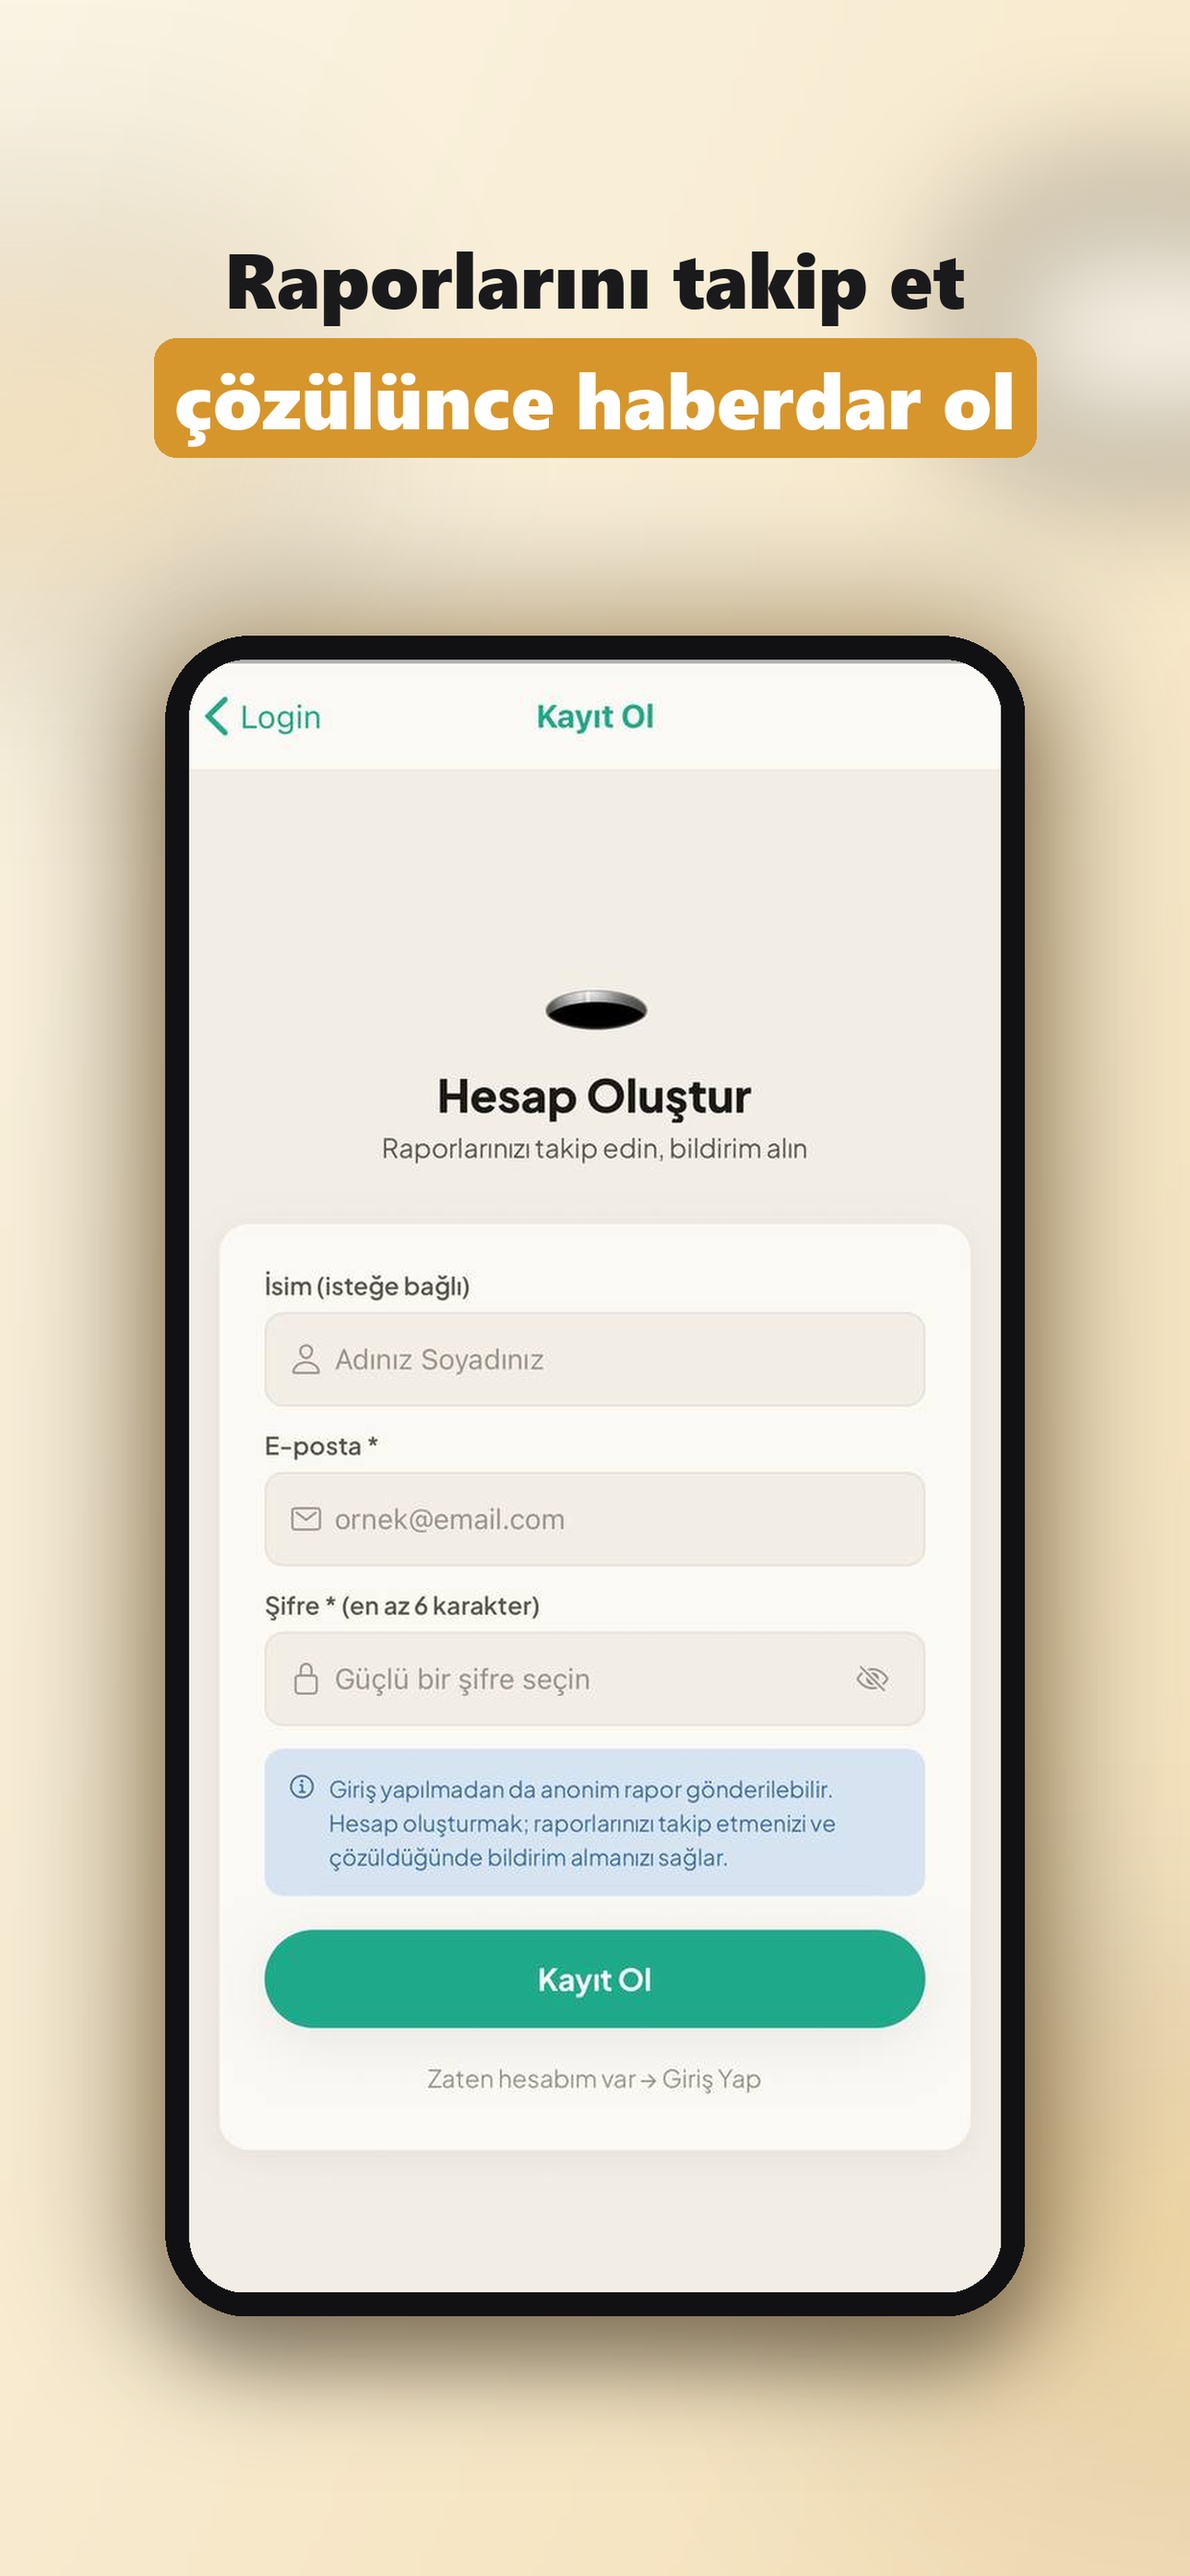
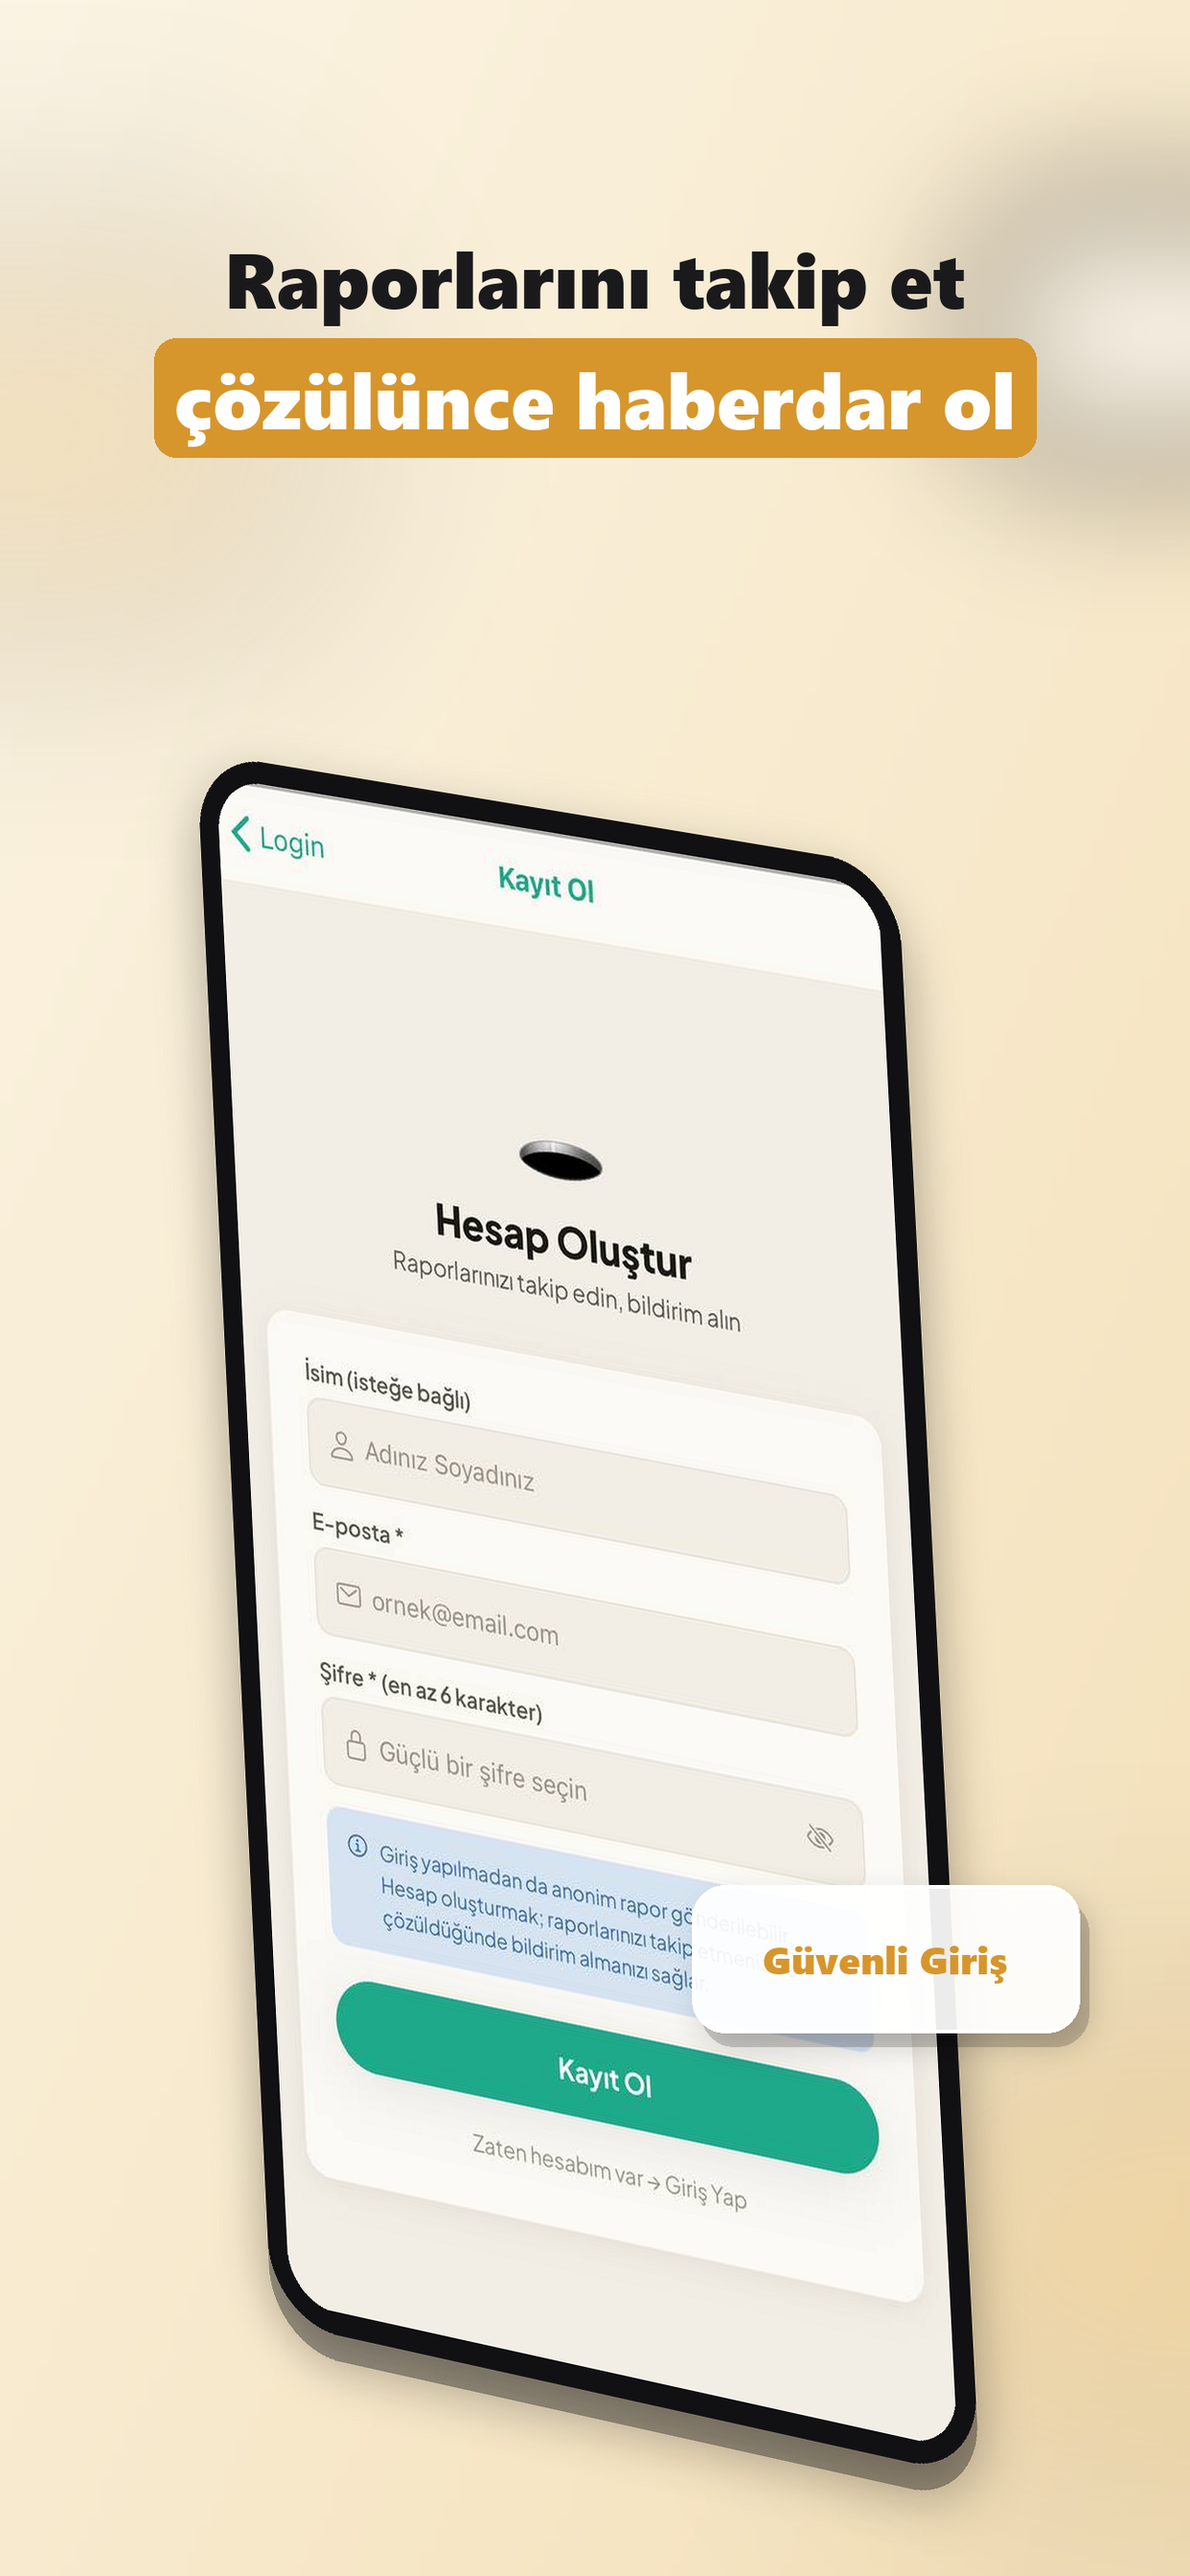
fix(assets): fix typo in perspective solver, adjust layout spacing, and generate final 3D screenshots

diff --git a/app-store-assets/make_app_store_screenshots.py b/app-store-assets/make_app_store_screenshots.py
@@ -1,8 +1,7 @@
-"""Generate App Store-ready 6.9" marketing screenshots from raw TestFlight captures."""
+"""Generate App Store-ready 6.9" and 6.5" screenshots with alternating 3D perspective and floating badges."""
 
 from pathlib import Path
 from PIL import Image, ImageDraw, ImageFont, ImageFilter
-
 
 W, H = 1290, 2796
 INK = (26, 26, 28)
@@ -21,7 +20,7 @@ THEMES = {
     "amber": ((251, 244, 228), (244, 224, 184), (214, 150, 44)),
 }
 
-# Crop removes the TestFlight header while preserving the app navigation bar.
+# SHOTS configuration: (source_img, dest_img, theme, headlines, crop_top, tilt_direction, badge_text)
 SHOTS = [
     (
         "photo_2026-05-31_04-26-22 (3).jpg",
@@ -29,6 +28,8 @@ SHOTS = [
         "mint",
         [[("Yoldaki tüm çukurları", False)], [("haritadan takip edin", True)]],
         78,
+        "right",
+        "Sorun Çözüldü!"
     ),
     (
         "photo_2026-05-31_04-26-22 (2).jpg",
@@ -36,6 +37,8 @@ SHOTS = [
         "mint",
         [[("Çukuru fotoğrafla", False)], [("saniyeler içinde bildir", True)]],
         78,
+        "left",
+        "Konum Algılandı"
     ),
     (
         "photo_2026-05-31_04-26-22.jpg",
@@ -43,6 +46,8 @@ SHOTS = [
         "blue",
         [[("Şehrindeki sorunları", False)], [("şeffafça takip et", True)]],
         78,
+        "right",
+        "Aktif Belediyeler"
     ),
     (
         "photo_2026-05-31_04-26-21.jpg",
@@ -50,8 +55,36 @@ SHOTS = [
         "amber",
         [[("Raporlarını takip et", False)], [("çözülünce haberdar ol", True)]],
         92,
+        "left",
+        "Güvenli Giriş"
     ),
 ]
+
+
+def solve_linear_system(A, B):
+    n = len(A)
+    M = [A[i] + [B[i]] for i in range(n)]
+    for i in range(n):
+        pivot_row = max(range(i, n), key=lambda r: abs(M[r][i]))
+        M[i], M[pivot_row] = M[pivot_row], M[i]
+        pivot = M[i][i]
+        M[i] = [val / pivot for val in M[i]]
+        for r in range(n):
+            if r != i:
+                factor = M[r][i]
+                M[r] = [M[r][j] - factor * M[i][j] for j in range(n + 1)]
+    return [row[-1] for row in M]
+
+
+def get_perspective_coeffs(src_pts, dst_pts):
+    A = []
+    B = []
+    for (u, v), (x, y) in zip(dst_pts, src_pts):
+        A.append([u, v, 1, 0, 0, 0, -x*u, -x*v])
+        B.append(x)
+        A.append([0, 0, 0, u, v, 1, -y*u, -y*v])
+        B.append(y)
+    return solve_linear_system(A, B)
 
 
 def diagonal_gradient(c1, c2):
@@ -108,47 +141,136 @@ def draw_headline(canvas, lines, font, accent):
         y += line_height
 
 
-def make(source, destination, theme_name, lines, crop_top, font):
+def make(source, destination, theme_name, lines, crop_top, tilt, badge_text, font):
     color_a, color_b, accent = THEMES[theme_name]
     background = diagonal_gradient(color_a, color_b).convert("RGBA")
     background = soft_circle(background, 120, 470, 230, accent, 46)
     background = soft_circle(background, W - 90, 360, 150, WHITE, 150)
     background = soft_circle(background, W - 120, H - 360, 260, accent, 38)
 
+    # Load and crop screenshot
     shot = Image.open(source).convert("RGB")
     shot = shot.crop((0, crop_top, shot.width, shot.height))
     screen_width = 880
     screen_height = round(screen_width / (shot.width / shot.height))
     shot = shot.resize((screen_width, screen_height), Image.Resampling.LANCZOS)
 
+    # Flat mockup measurements
     bezel = 26
     body_width, body_height = screen_width + 2 * bezel, screen_height + 2 * bezel
-    body_x = (W - body_width) // 2
-    body_y = 690
+    padding = 100
+    temp_w, temp_h = body_width + 2 * padding, body_height + 2 * padding
 
-    glow = Image.new("RGBA", (W, H), (0, 0, 0, 0))
-    ImageDraw.Draw(glow).rounded_rectangle(
-        [body_x - 30, body_y - 20, body_x + body_width + 30, body_y + body_height + 20],
-        120,
-        fill=accent + (120,),
-    )
-    background = Image.alpha_composite(background, glow.filter(ImageFilter.GaussianBlur(70)))
+    # Temporary canvas for drawing flat phone
+    temp_canvas = Image.new("RGBA", (temp_w, temp_h), (0, 0, 0, 0))
+    draw_temp = ImageDraw.Draw(temp_canvas)
 
-    shadow = Image.new("RGBA", (W, H), (0, 0, 0, 0))
-    ImageDraw.Draw(shadow).rounded_rectangle(
-        [body_x, body_y + 40, body_x + body_width, body_y + body_height + 40],
+    # Soft shadow on temp canvas
+    shadow_offset = 30
+    draw_temp.rounded_rectangle(
+        [padding, padding + shadow_offset, padding + body_width, padding + body_height + shadow_offset],
         92,
-        fill=(15, 15, 18, 110),
+        fill=(15, 15, 18, 90),
     )
-    background = Image.alpha_composite(background, shadow.filter(ImageFilter.GaussianBlur(42)))
+    temp_canvas = Image.alpha_composite(temp_canvas, temp_canvas.filter(ImageFilter.GaussianBlur(32)))
+    draw_temp = ImageDraw.Draw(temp_canvas)
 
-    body = Image.new("RGBA", (body_width, body_height), (0, 0, 0, 0))
-    ImageDraw.Draw(body).rounded_rectangle([0, 0, body_width, body_height], 92, fill=BODY)
-    background.paste(body, (body_x, body_y), body)
-    shot = rounded(shot, 62)
-    background.paste(shot, (body_x + bezel, body_y + bezel), shot)
+    # Draw phone body
+    draw_temp.rounded_rectangle(
+        [padding, padding, padding + body_width, padding + body_height],
+        92,
+        fill=BODY
+    )
 
+    # Paste screenshot
+    shot_rounded = rounded(shot, 62)
+    temp_canvas.paste(shot_rounded, (padding + bezel, padding + bezel), shot_rounded)
+
+    # Calculate 3D perspective coordinates on background
+    body_x = (W - body_width) // 2
+    body_y = 820
+
+    dx0, dy0 = body_x - padding, body_y - padding
+    dx1, dy1 = body_x + body_width + padding, body_y - padding
+    dx2, dy2 = body_x + body_width + padding, body_y + body_height + padding
+    dx3, dy3 = body_x - padding, body_y + body_height + padding
+
+    src_pts = [
+        (0, 0),
+        (temp_w, 0),
+        (temp_w, temp_h),
+        (0, temp_h)
+    ]
+
+    if tilt == "right":
+        dst_pts = [
+            (dx0 + 160, dy0 + 140), # TL
+            (dx1 - 40, dy1 - 10),   # TR
+            (dx2 - 140, dy2 - 150), # BR
+            (dx3 + 60, dy3 + 60)    # BL
+        ]
+    else:  # left tilt
+        dst_pts = [
+            (dx0 + 50, dy0 - 10),   # TL
+            (dx1 - 160, dy1 + 140), # TR
+            (dx2 - 60, dy2 + 60),   # BR
+            (dx3 + 140, dy3 - 150)  # BL
+        ]
+
+    coeffs = get_perspective_coeffs(src_pts, dst_pts)
+    warped_phone = temp_canvas.transform((W, H), Image.PERSPECTIVE, coeffs, Image.BICUBIC)
+
+    # Paste warped phone onto background
+    background = Image.alpha_composite(background, warped_phone)
+
+    # Draw floating glassmorphic badge
+    badge_w, badge_h = 420, 160
+    if tilt == "right":
+        badge_x, badge_y = 120, H - 750
+    else:
+        badge_x, badge_y = W - badge_w - 120, H - 750
+
+    badge_canvas = Image.new("RGBA", (W, H), (0, 0, 0, 0))
+    draw_badge = ImageDraw.Draw(badge_canvas)
+
+    # Badge shadow
+    draw_badge.rounded_rectangle(
+        [badge_x + 10, badge_y + 15, badge_x + badge_w + 10, badge_y + badge_h + 15],
+        36,
+        fill=(0, 0, 0, 45)
+    )
+    badge_canvas = Image.alpha_composite(badge_canvas, badge_canvas.filter(ImageFilter.GaussianBlur(16)))
+    draw_badge = ImageDraw.Draw(badge_canvas)
+
+    # Badge container (semi-transparent glass card)
+    draw_badge.rounded_rectangle(
+        [badge_x, badge_y, badge_x + badge_w, badge_y + badge_h],
+        36,
+        fill=(255, 255, 255, 235),
+        outline=WHITE + (255,),
+        width=4
+    )
+
+    # Badge text
+    try:
+        font_b = ImageFont.truetype(FONT_BOLD, 42)
+    except:
+        font_b = ImageFont.load_default()
+
+    # Center text inside the card
+    text_bbox = draw_badge.textbbox((0, 0), badge_text, font=font_b)
+    text_w = text_bbox[2] - text_bbox[0]
+    text_h = text_bbox[3] - text_bbox[1]
+    tx = badge_x + (badge_w - text_w) // 2
+    ty = badge_y + (badge_h - text_h) // 2 - 8 # slight visual adjustment
+
+    draw_badge.text((tx, ty), badge_text, font=font_b, fill=accent)
+    background = Image.alpha_composite(background, badge_canvas)
+
+    # Draw headline text
     draw_headline(background, lines, font, accent)
+
+    # Save to destination
     background.convert("RGB").save(destination, "PNG")
 
 
@@ -156,16 +278,19 @@ def main():
     OUT_69.mkdir(parents=True, exist_ok=True)
     OUT_65.mkdir(parents=True, exist_ok=True)
     font = ImageFont.truetype(FONT_BOLD, 84)
-    for source_name, output_name, theme, lines, crop_top in SHOTS:
+
+    for source_name, output_name, theme, lines, crop_top, tilt, badge_text in SHOTS:
         dest_69 = OUT_69 / output_name
         dest_65 = OUT_65 / output_name
-        make(SRC / source_name, dest_69, theme, lines, crop_top, font)
-        
-        # Generate 6.5" version by resizing the 6.9" version
+
+        # Generate 6.9" version
+        make(SRC / source_name, dest_69, theme, lines, crop_top, tilt, badge_text, font)
+
+        # Generate 6.5" version by resizing
         img_69 = Image.open(dest_69)
         img_65 = img_69.resize((1242, 2688), Image.Resampling.LANCZOS)
         img_65.save(dest_65, "PNG")
-        
+
         print(f"OK {output_name} (6.9\" & 6.5\")")
 
 
